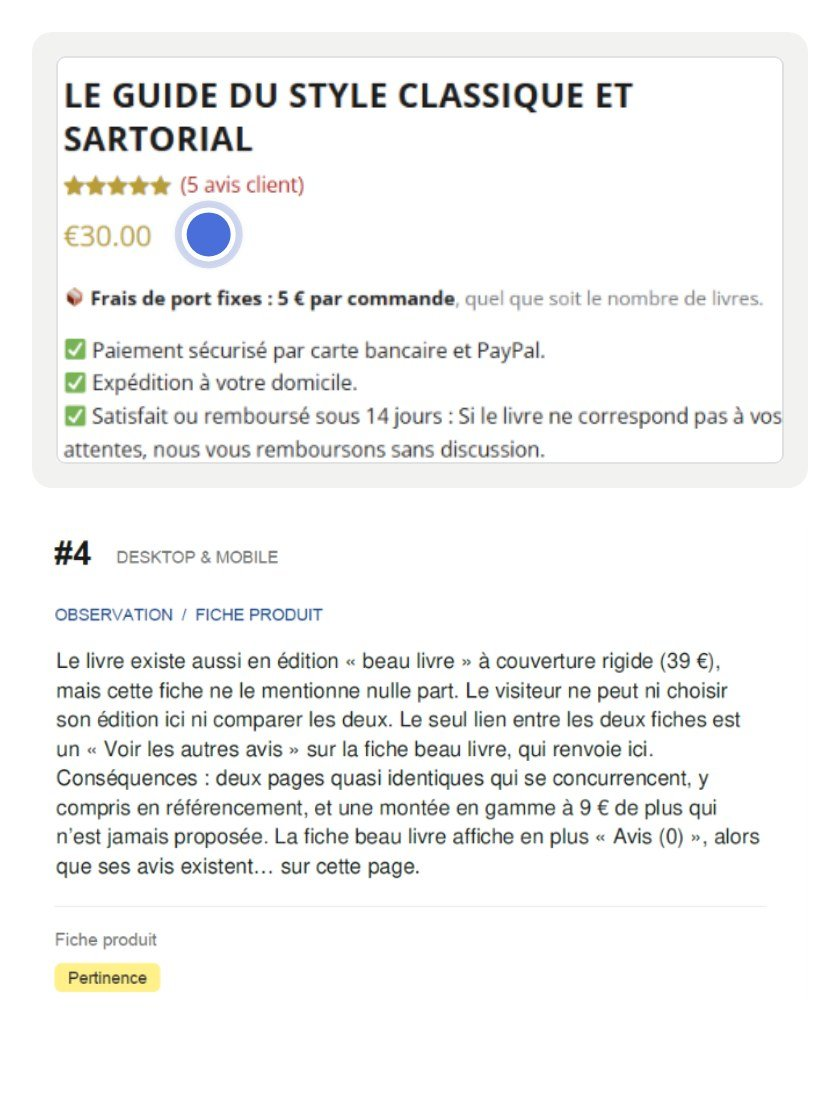
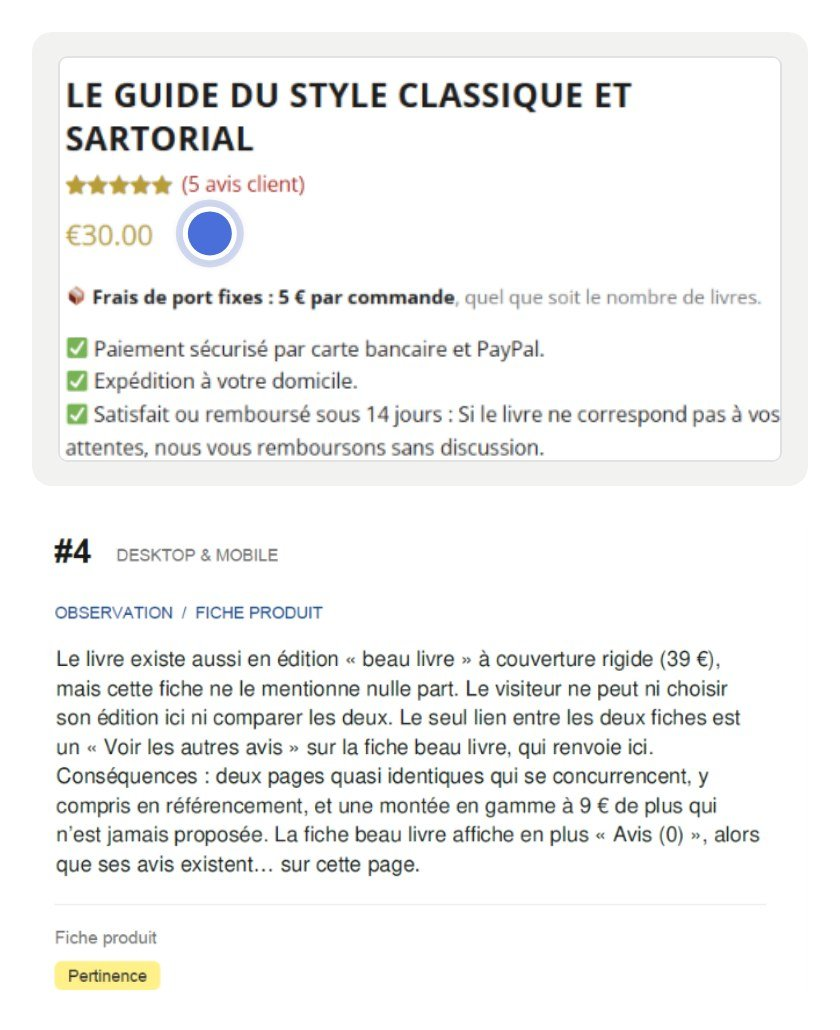
d'Aplomb mobile : extraits des montages à la même échelle, nouvel extrait n°8
- les extraits ne sont plus étirés à la largeur du panneau : échelle commune, centrés
  (n°17 et n°21 nettement plus petits)
- n°8 : nouvelle capture du bloc Expédition, plus nette
- hauteur commune ramenée à 1030 px (moins de blanc en bas)

Changed region(s): [[0.0619, 0.0621, 0.9286, 0.5592], [0.0619, 0.5903, 0.8976, 0.9631]]

diff --git a/aplomb/index.html b/aplomb/index.html
@@ -1503,20 +1503,20 @@ html.zoom-lock, html.zoom-lock body { overflow: hidden; }
       <div class="lc-media">
         <figure class="doc-fan">
           <!-- Mobile : montages « emplacement + observation » (format portrait) à la place des pages PDF -->
-          <div class="doc-fan-pages" data-mobile-ratio="840 / 1110">
+          <div class="doc-fan-pages" data-mobile-ratio="840 / 1030">
             <picture>
-              <source media="(max-width: 760px)" srcset="assets/hh-diag-mobile-21.jpg" width="840" height="1110">
+              <source media="(max-width: 760px)" srcset="assets/hh-diag-mobile-21.jpg" width="840" height="1030">
               <img class="doc-fan-back is-left" src="assets/hh-diag-21.jpg" width="962" height="702" alt="Observation n°21, fiche produit sur mobile : les caractéristiques du livre ne sont visibles que dans le dernier onglet, critère Clarté" loading="lazy" decoding="async">
             </picture>
             <picture>
-              <source media="(max-width: 760px)" srcset="assets/hh-diag-mobile-04.jpg" width="840" height="1110">
+              <source media="(max-width: 760px)" srcset="assets/hh-diag-mobile-04.jpg" width="840" height="1030">
               <img class="doc-fan-back is-right" src="assets/hh-diagnostic.jpg" width="930" height="666" alt="Observation n°4, fiche produit : l'édition beau livre n'est mentionnée nulle part, critère Pertinence" loading="lazy" decoding="async">
             </picture>
             <picture>
-              <source media="(max-width: 760px)" srcset="assets/hh-diag-mobile-17.jpg" width="840" height="1110">
+              <source media="(max-width: 760px)" srcset="assets/hh-diag-mobile-17.jpg" width="840" height="1030">
               <img class="doc-fan-front" src="assets/hh-diag-17.jpg" alt="Observation n°17, panier sur mobile : le bouton « Valider la commande » n'apparaît qu'après près de deux écrans, critère Friction" width="966" height="692" loading="lazy" decoding="async">
             </picture>
-            <img class="doc-fan-back doc-fan-extra" data-only="mobile" src="assets/hh-diag-mobile-08.jpg" width="840" height="1110" alt="Observation n°8, panier : le forfait de livraison à 5 € est suivi de mentions qui laissent croire que le montant pourrait changer, critère Clarté" loading="lazy" decoding="async">
+            <img class="doc-fan-back doc-fan-extra" data-only="mobile" src="assets/hh-diag-mobile-08.jpg" width="840" height="1030" alt="Observation n°8, panier : le forfait de livraison à 5 € est suivi de mentions qui laissent croire que le montant pourrait changer, critère Clarté" loading="lazy" decoding="async">
           </div>
           <figcaption>Les observations dans un PDF · extrait</figcaption>
         </figure>
